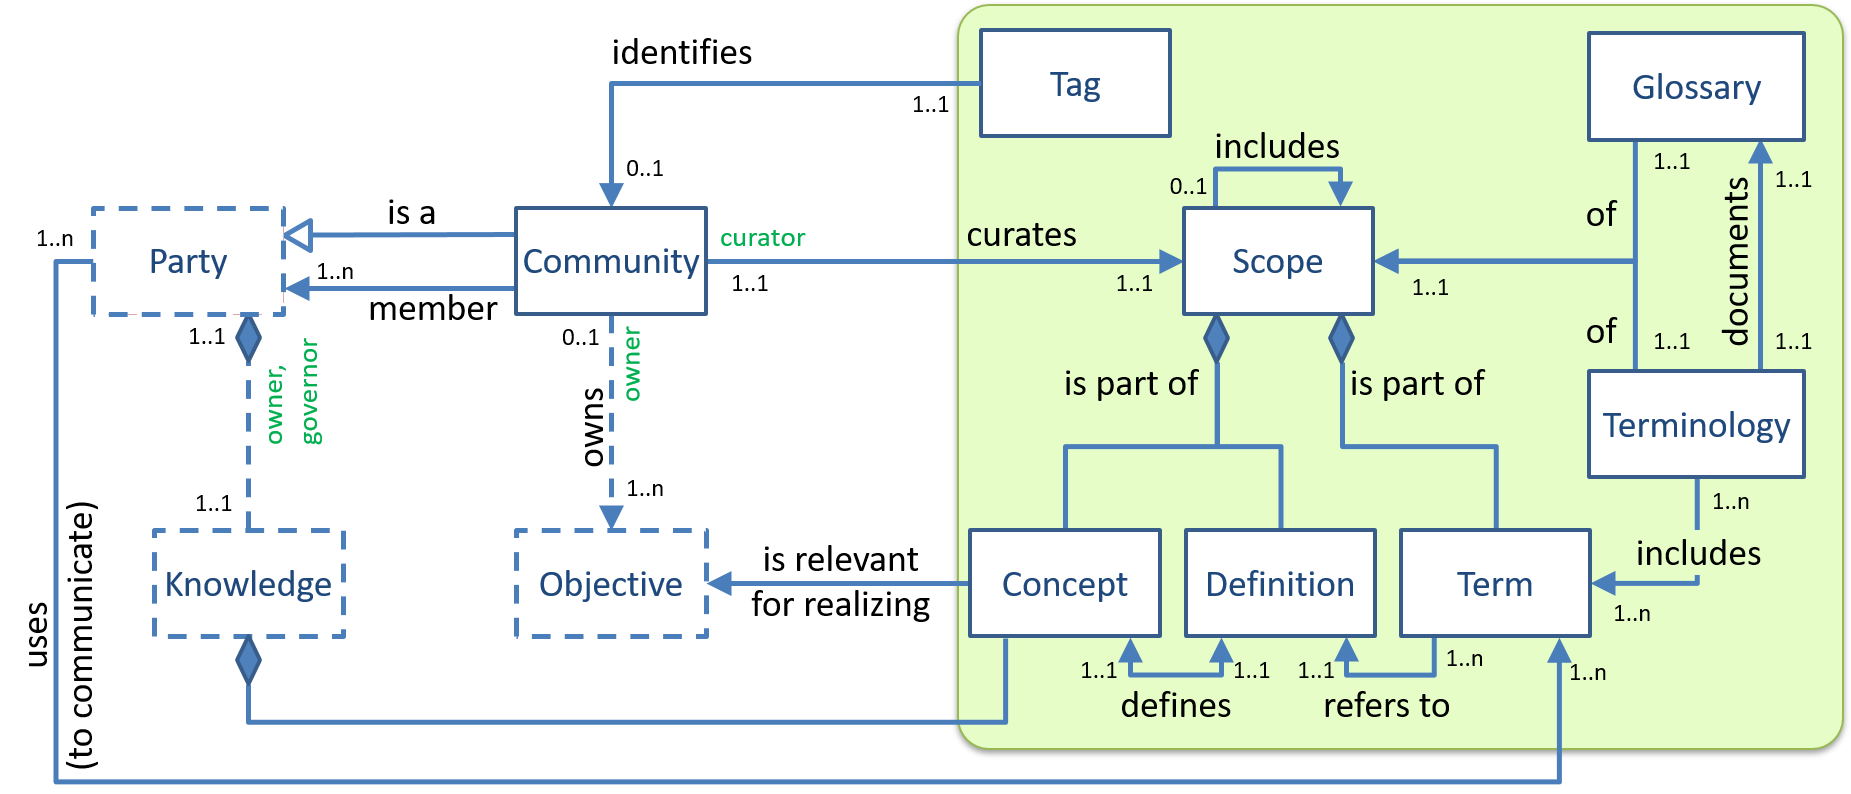
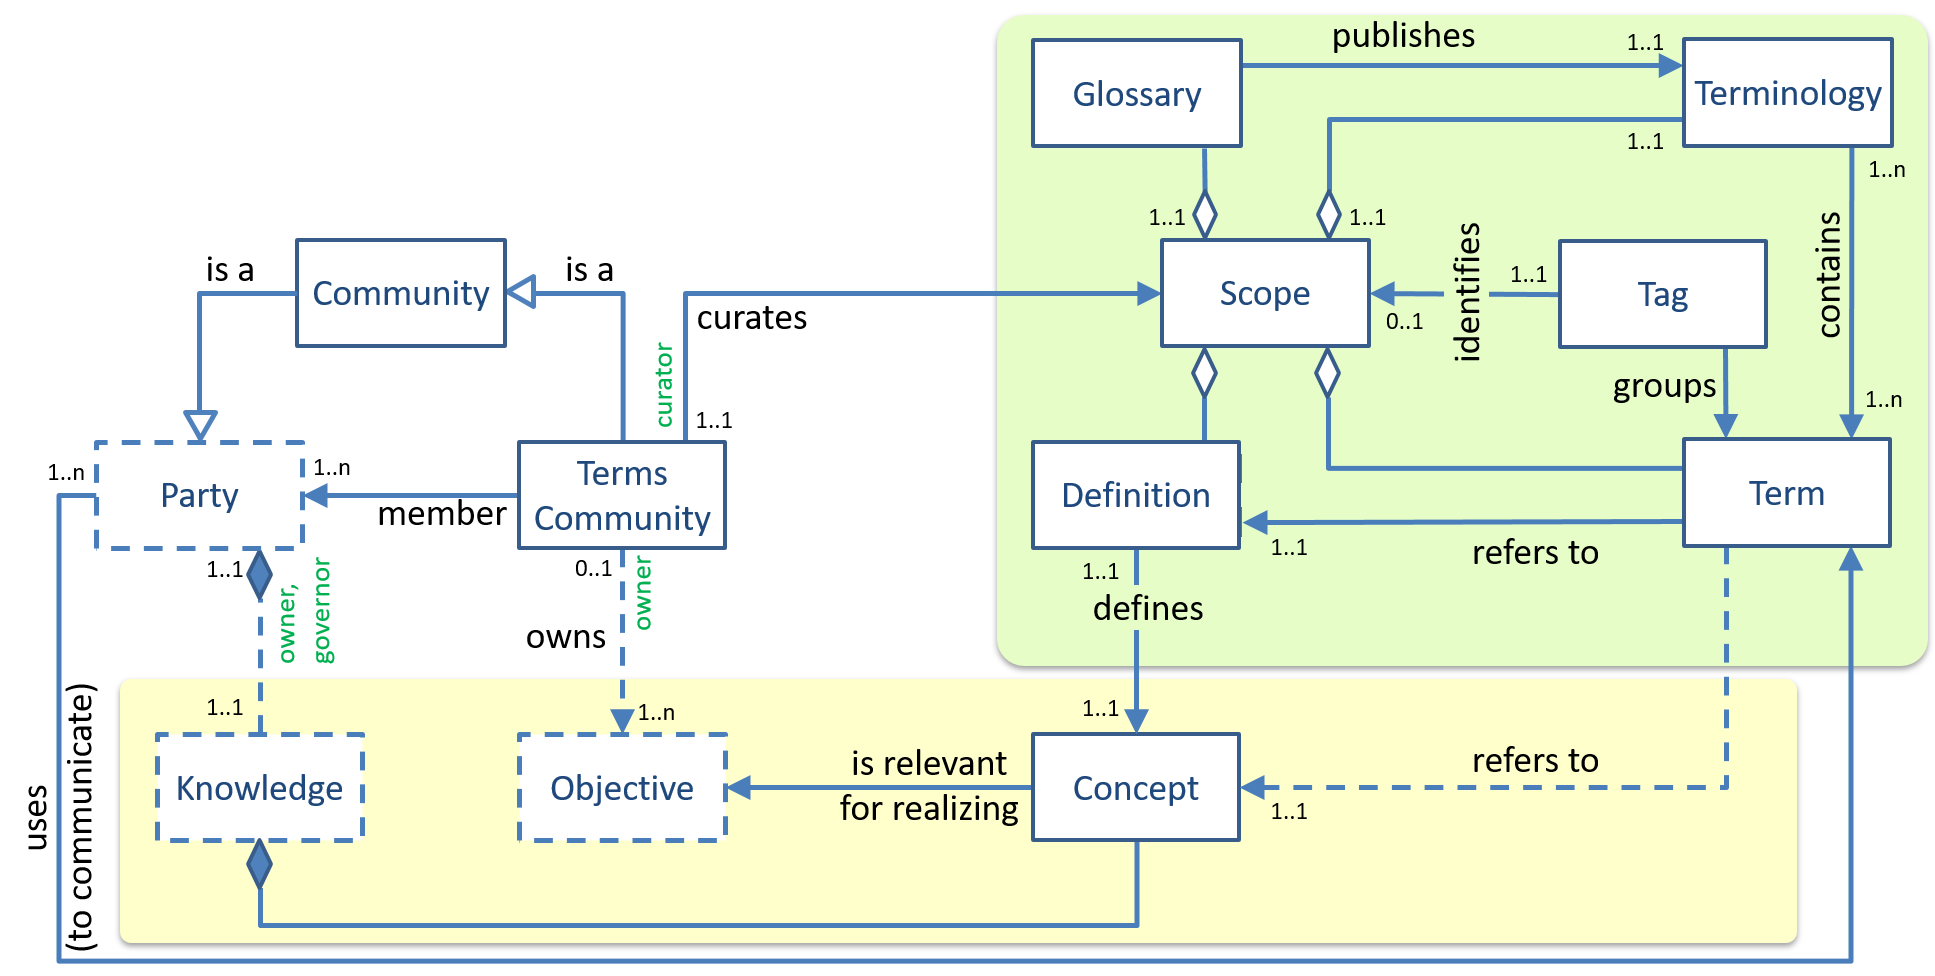
updates of notations/conventions

diff --git a/docs/notations-and-conventions.md b/docs/notations-and-conventions.md
@@ -4,6 +4,8 @@ title: Notations and Conventions
 date: 20210601
 ---
 
+import useBaseUrl from '@docusaurus/useBaseUrl'
+
 This document provides an overview of the notations and conventions being used within eSSIF-Lab.
 
 ### RFC 2119
@@ -18,15 +20,27 @@ We are working towards deprecating this convention, as we now have better ways o
 
 ### Pattern diagram notations
 
-%%Pattern|pattern%% diagrams will be visualized in this document using a UML-like notation, as follows:
+%%Pattern|pattern%% diagrams will be visualized in this document using a UML-like notation. The following diagram shows the various notations we use:
 
-- A **rectangle** represents a (named) concept that is explicitly defined. Concepts serve as entity-classes. Their (operational) extensions, i.e. the respective sets of (runtime) instances, are disjunct.
-- A **rectangle that is coloured red(dish)** represents a (named) concept that is commonly used 'in the wild' (and hence needs not be defined here), relates to one or more concepts that are explicitly defined yet is not the same. We include such 'red concepts' to help readers identify and subsequently bridge gaps between commonly held thoughts and the (sometimes subtly) different meanings we need in our model.
-- A **solid line with a closed arrowhead** represent a (named) relation/association between the two concepts it connects. We may refer to the concept at the arrowhead as the 'target concept' (TGT) for that relation. Similarly, the concept at the other end will be referred to as the 'source concept' (SRC) for that relation. Names are chosen such that `<SRC> <relation name> <TGT>` is a phrase that suggests the intension(al definition) of that relation.
-- A **solid line with an open arrowhead** represents an 'ISA' relation, which can be read as `<SRC> ISA <TGT>`. It means that SRC is a specialization of TGT (which in turn is a generalization of SRC). It means that SRC must satisfy all constraints that TGT must satisfy, and also that it has all attributes (including properties) that TGT has.
-- A **solid line with a solid diamand** at one end is a composition; the element at the 'non-diamond-end' of the line is 'part of' (the 'part') the element at the 'diamond-end' of the line (the 'whole'); if the 'whole' ceases to exist, then its 'parts' also cease to exist.
-- A **solid line with a hollow diamand** at one end is an aggregation; the element at the 'non-diamond-end' of the line is 'part of' (the 'part') the element at the 'diamond-end' of the line (the 'whole'); if the 'whole' ceases to exist, then its 'parts' do not necessarily cease to exist, but may 'live on'.
-- A **green name** at either end of a relation/association is what UML calls 'role'; this name may be used to refer to (an instance of) the concept at which the name is placed as it performs its/this role in this relation.
-- A **dashed line** with a closed arrow (solid triangle) signifies that while the relation is significant in combination with the model, its actual meaning relies on an assumption or is implied by some rule, or is specified in another pattern. The pattern text will state what this meaning is.
-- A **dashed line** with a pointed arrow (`>`) represents a dependency, where  the SRC concept somehow depends on the TGT concept. The kind of dependency is specified by `<<text>>`, where `text` specifies the kind of dependency. Example: `<<instance>>` says that SRC is an instance (or: instantiates) TGT.
-- **Multiplicities** (or: **cardinalities**) use the [n..m] notation. When a multiplicity is omitted, [0..n] is intended.
+<img
+  alt="Notations and conventions"
+  src={useBaseUrl('images/essif-lab-notations-and-conventions.png')}
+/>
+
+- Objects (lines, rectgangles, etc.) can be colored
+  - in **blue**, in which case they are properly defined (in a meaning that may deviate from what casual readers might expect).
+  - in **red**, in which case their meaning is expected to be part of 'common knowledge'. Their meaning may not be defined, yet if it is, the definition is an attempt to make this 'common knowledge' explicit. Red objects are used to bridge possible gaps between 'common understanding' and the eSSIF-Lab ways of thinking, that deviates in various respects.
+- Lines can be drawn
+  - **solid**, in which case they are part of the %%model|pattern%% that is shown in a figure, or
+  - **dashed**, in which case they are (better) explained in other %%models|pattern%%.
+- A **rectangle** represents a (named) %%concept|concept%%, examples of which include %%entity|entity%%, %%legal entity|legal-entity%% and %%party|party%%. %%Concepts|concept%% serve as entity-classes. Their (operational) extensions, i.e. the respective sets of (runtime) instances, are disjunct, unless there is an 'ISA' relation between them (see below).
+- A **line with a closed arrowhead** represents a (named) relation/association between the two %%concepts|concept%% it connects. We may refer to the concept at the arrowhead as the 'target %%concept|concept%%' (TGT) for that relation. Similarly, the %%concept|concept%% at the other end will be referred to as the 'source %%concept|concept%%' (SRC) for that relation. Names are chosen such that `<SRC> <relation name> <TGT>` is a phrase that suggests the intension(al definition) of that relation. For example, `operates` is a relation that has `Jurisdiction` as its `<SRC>`, and `Legal System` as its `<TGT>`. It may be read as `Jurisdiction operates Legal System`.
+- A **line with an open arrowhead** represents an 'ISA' (pronounce as 'is a') relation, which can be read as `<SRC> is a <TGT>`. It means that SRC *is a* specialization of TGT (which in turn is a generalization of SRC). It means that SRC satisfies all constraints that TGT satisfies, and also that it has all attributes (properties, characgteristics) that TGT has. An example from the figure is: 'Jurisdiction is a Party'.
+- A **line with a solid diamand** at one end is a composition; the element at the 'non-diamond-end' of the line is 'part of' the element at the 'diamond-end' of the line (the 'whole'); if the 'whole' ceases to exist, then its 'parts' also cease to exist. In the figure, we see that %%knowledge|knowledge%% is 'part of' a %%party|party%% (the fact that it can also be part of a %%jurisdiction|jurisdiction%% follows from the fact that a %%jurisdiction|jurisdiction%% ISA %%party|party%%). Note that if the %%party|party%% ceases to exist, then so does the associated %%knowledge|knowledge%%. We say that %%party|party%% is 'the whole' in the relation, and %%knowledge|knowledge%% is a 'part' in the relation.
+- A **line with a hollow diamand** at one end is an aggregation; the element at the 'non-diamond-end' of the line is 'part of' the element at the 'diamond-end' of the line (the 'whole'); if the 'whole' ceases to exist, then its 'parts' do not necessarily cease to exist, but may 'live on'. In the figure, we see that 'legislation', 'enforcement' and 'juridicary' are all parts of a %%legal system|legal-system%%. If the %%legal system|legal-system%% ceases to exist, then it is possible that the 'legislation', 'enforcement' and 'juridicary' may continue their existence.
+- A **green name** at either end of a relation/association is what UML calls 'role'; this name may be used to refer to (an instance of) the %%concept|concept%% at which the name is placed as it performs its/this role in this relation. In the figure, `governor` is the role that a %%party|party%% (or %%jurisdiction|jurisdiction%%) is said to be in as it governs its %%knowledge|knowledge%%.
+- A **dashed line** with a pointed arrow (`>`) represents a dependency, where  the SRC concept somehow depends on the TGT concept. The kind of dependency is specified by `<<text>>`, where `text` specifies the kind of dependency. Example: `<<instance>>` says that SRC is an instance (or: instantiates) TGT. This isn't shown in the figure.
+- **Multiplicities** (or: **cardinalities**) use the [n..m] notation. When a multiplicity is omitted, [0..n] is intended. A [multiplicity](https://www.uml-diagrams.org/multiplicity.html) specifies the minimum (*n*) and maximum (*m*) of possible instances of the concept where it is specified in a relation. Here are a few examples from the figure:
+  - the [1..1] multiplicity in the relation 'controls' must be read as "Every jurisdiction controls exactly one Scope of Control"
+  - the [1..n] multiplicity in the relation 'owns' reads: "Every party owns one or more (or: at least one) objectives".
+  - a multiplicity at the SRC of a relation can be read by first reversing the relation. For example, the [1..1] multiplicity at the SRC of relation 'owns' results in "Every objective *is owned by* precisely one party".

diff --git a/docs/terms/tag.md b/docs/terms/tag.md
@@ -1,0 +1,23 @@
+---
+id: tag
+title: "Tag"
+scopeid: essifLabTerminology
+type: concept
+typeid: term
+stage: draft
+hoverText: "Tag: an alphanumeric string that is used to identify Scopes and/or group Terms, and that satisfies the regex `#[a-z-0-9]+`."
+glossaryText: "an alphanumeric string that is used to identify %%scopes^scope%% and/or group %%terms^term%%, and that satisfies the regex `#[a-z-0-9]+`."
+date: 20210601
+---
+
+### Short Description
+A Tag is an alphanumeric string that is used to identify %%scopes^scope%% and/or group %%terms|term%%, and that satisfies the regex `#[a-z-0-9]+`. As an %%identifier|identifier%% for a %%scope|scope%%, it can be used to disambiguate meanings. For example `#essif-lab:term` is an %%identifier|identifier%% for the %%concept|concept%% that within the %%scope|scope%% of eSSIF-Lab is referred to by the %%term|term%% 'Term'. In other situations, it may be used in combination with texts that document e.g. %%concepts|concept%%, so as to enable tools to group such texts.
+
+### Criteria
+is an alphanumeric string that is used to identify %%scopes^scope%% and/or group %%terms|term%%, and that satisfies the regex `#[a-z-0-9]+`.
+
+### Examples
+Examples of tags are:
+- #essif-lab
+- #toip
+- #ctwg
